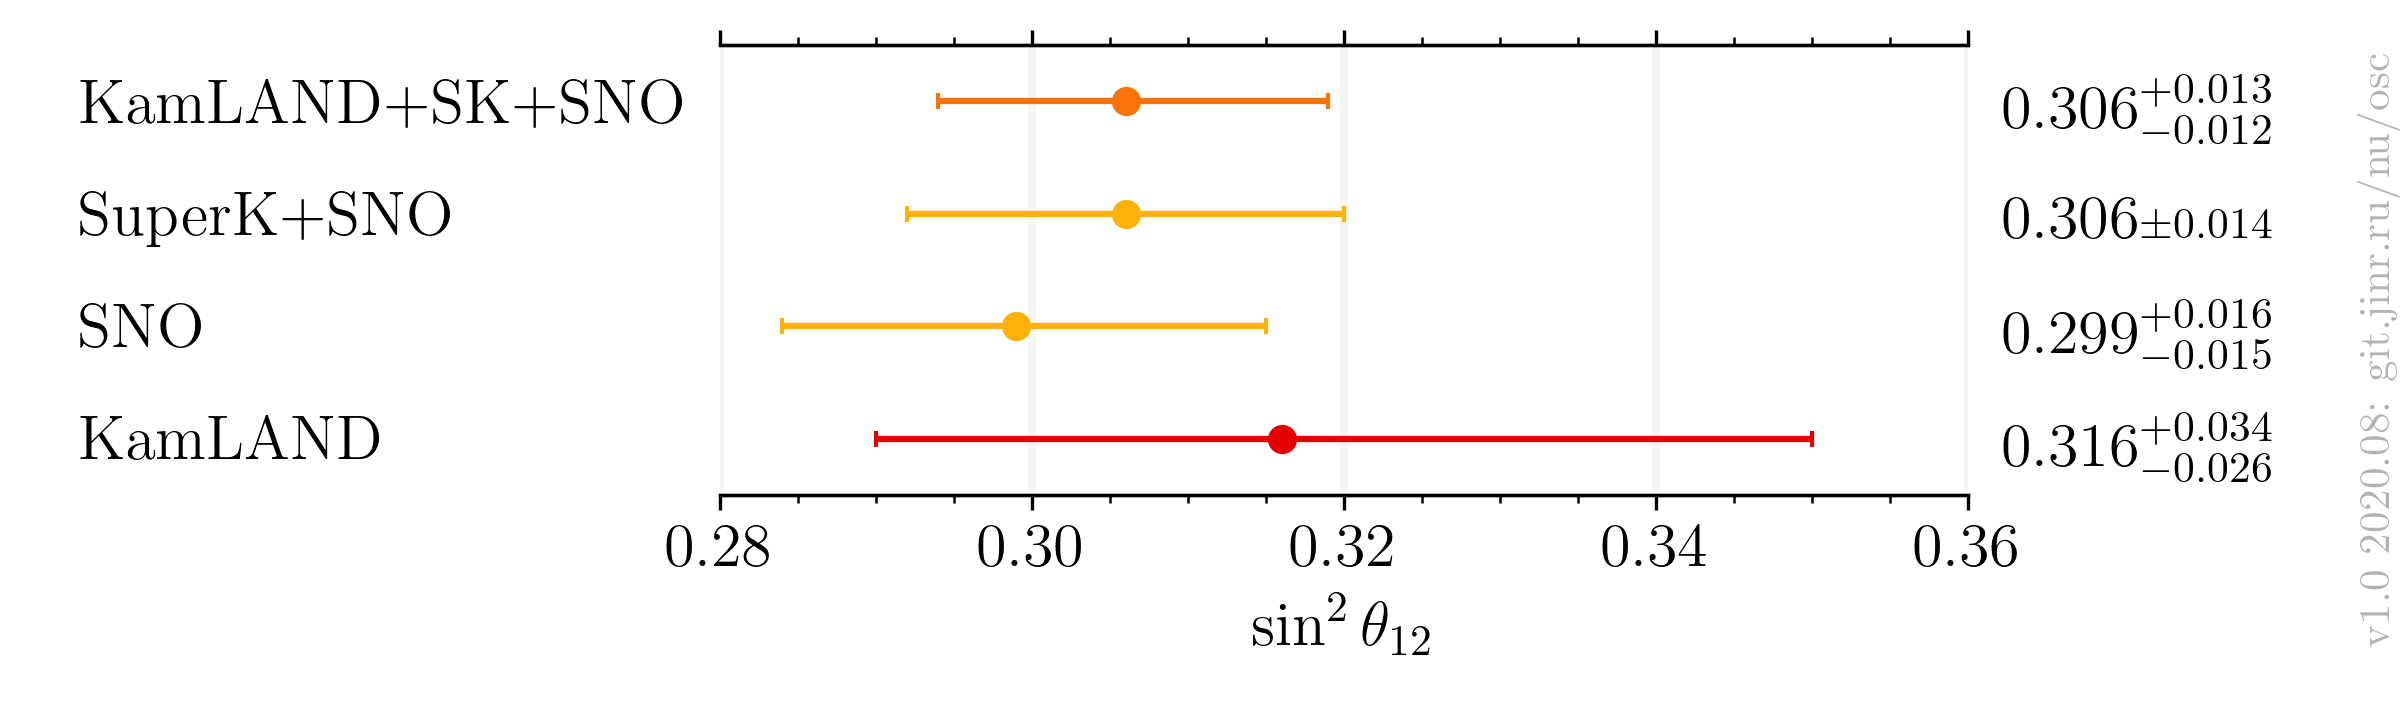
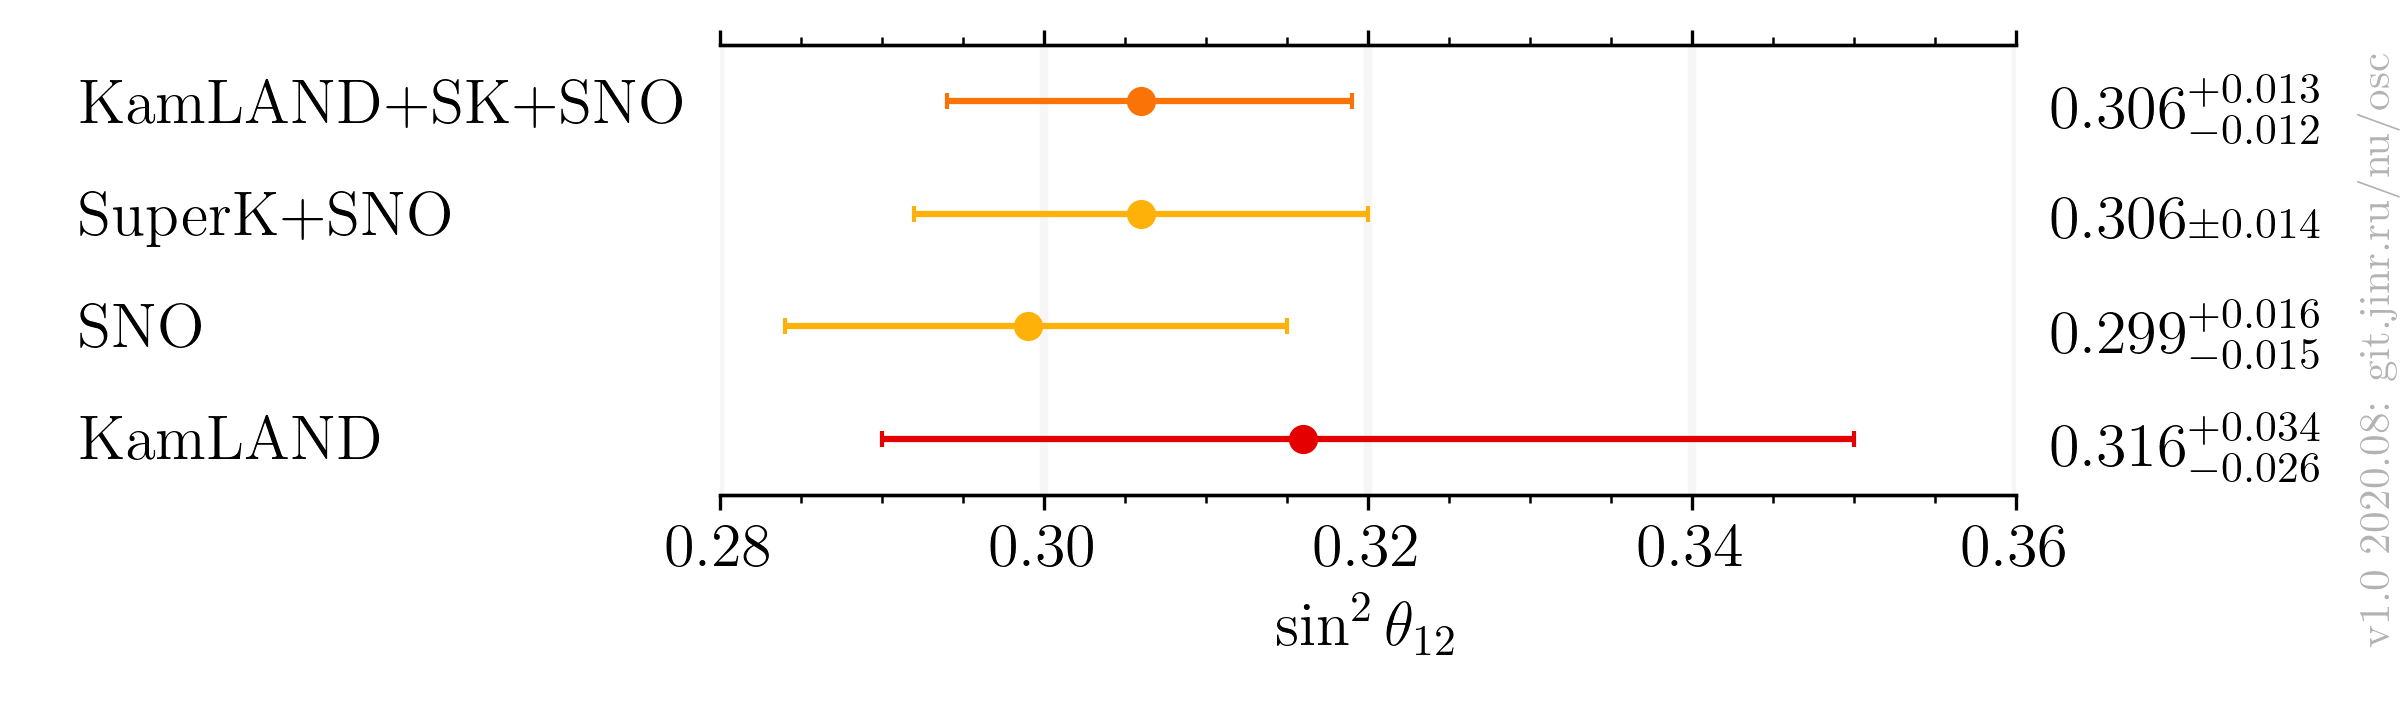
Release theta12 v1.0

diff --git a/samples/theta12/v1.0-neutrino2020/theta12.py b/samples/theta12/v1.0-neutrino2020/theta12.py
@@ -53,7 +53,7 @@ def main(args):
         ax.set_xlim(lims)
     ax.tick_params(axis='x', which='both', top=True)
     ax.xaxis.grid(True)
-    plt.subplots_adjust(left=0.30, right=0.82, top=axtop, bottom=fracbottom*singleheight/figheight)
+    plt.subplots_adjust(left=0.30, right=0.84, top=axtop, bottom=fracbottom*singleheight/figheight)
 
     #
     # Iterate data